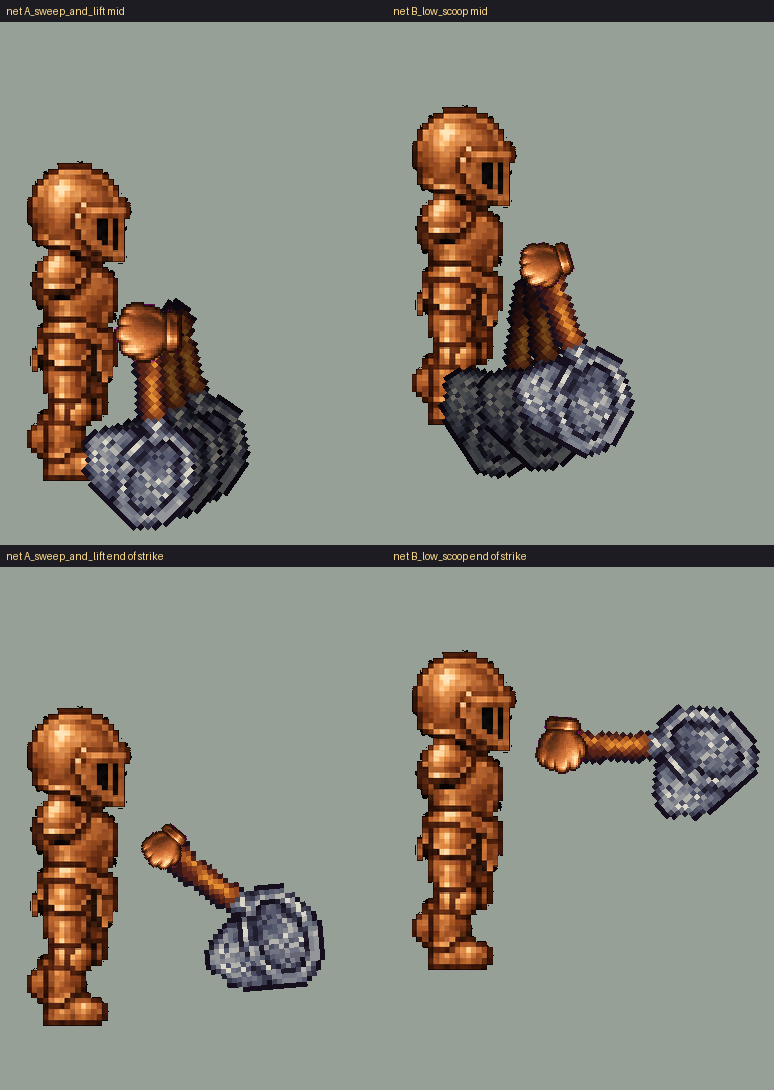
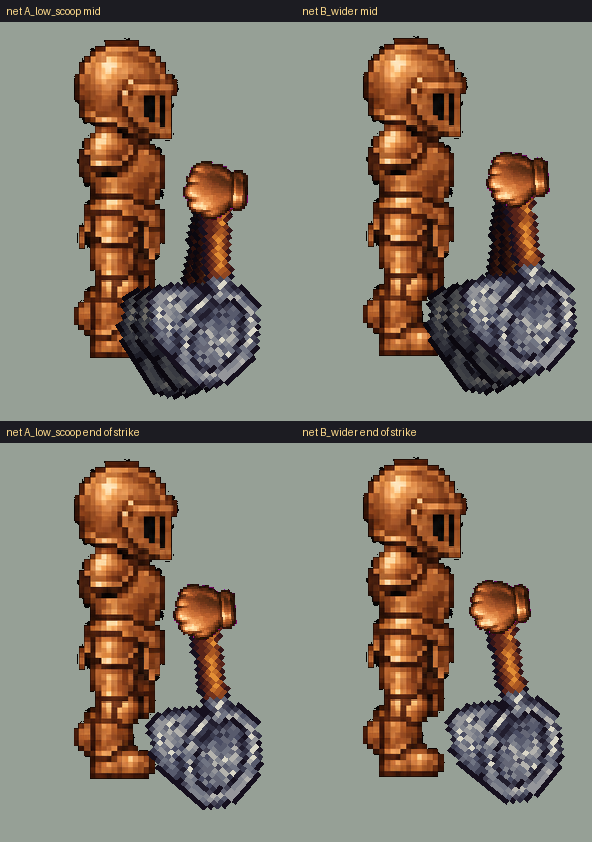
Net, shovel and spear: get the hands down where they belong
"when you sweep up a bug does your hand end up near your face?" - no.
"speer thrust the hands need to come down a bunch more they are near the head"
"shovel is fine, deeper and do it two hands"
"i cant even tell which direction that animation is going with it repeating"

I claimed the sprite was chibi and the shoulder was at head height. WRONG, and I
said it without looking. Measured the width profile: helmet to ~22% down,
shoulders ~30%, waist ~50%, legs below 65%. The shoulder pivot at 30% is exactly
on the shoulder line.

The real fault was AIMING HORIZONTALLY FROM IT, which parks the hands at shoulder
height. A two-handed spear sits at chest/waist, so the thrust now aims -20 deg.
Verified numerically rather than by eye:

  spear   hands travel 32%-47% down the body   (chest to waist)
  net     48%-57%                              (low, and it ends low)
  shovel  42%-69%                              (down to the ground)

  net     starts low and ends low, hoop angled up more
  shovel  deeper (reach to 0.80/0.90) and now TWO-HANDED
  spear   aimed below horizontal, cocked back further

Every attack now holds at rest for 4 frames before the loop restarts, so the
direction is readable instead of ping-ponging.

diff --git a/tools/player_sprites/swing_tools.py b/tools/player_sprites/swing_tools.py
@@ -74,15 +74,18 @@ TOOLS = {
                         (40, 50, 0.44)),
     }),
     "net": ("small_net_icon.png", False, {
-        # hoop LEADS (negative back), and it finishes by LIFTING to enclose rather than passing through
-        "A_sweep_and_lift": ((80, -40, 0.50),
-                             [(30, -48, 0.62), (-20, -54, 0.66), (-50, -40, 0.62), (-30, -10, 0.58)],
-                             (40, -30, 0.46)),
-        "B_low_scoop": ((40, -34, 0.46),
-                        [(-20, -50, 0.60), (-60, -56, 0.66), (-40, -34, 0.62), (0, -4, 0.58)],
-                        (30, -28, 0.44)),
+        # Hoop LEADS (negative back). START LOW AND END LOW — you scoop a bug up off the ground, your
+        # hand does not finish beside your face. Owner: "when you sweep up a bug does your hand end up
+        # near your face?" The hand stays below the shoulder line for the whole motion, and the hoop is
+        # angled UP more so the opening faces where the bug is.
+        "A_low_scoop": ((-78, -34, 0.46),
+                        [(-64, -52, 0.60), (-46, -62, 0.68), (-34, -58, 0.64), (-38, -48, 0.58)],
+                        (-74, -32, 0.44)),
+        "B_wider": ((-84, -30, 0.44),
+                    [(-66, -50, 0.62), (-42, -64, 0.72), (-26, -60, 0.68), (-34, -50, 0.60)],
+                    (-78, -30, 0.44)),
     }),
-    "shovel": ("shovel_copper_icon.png", False, {
+    "shovel": ("shovel_copper_icon.png", True, {
         # THRUST IN, then swing up JUST A LITTLE, then return. Owner: "you are supposed to thrust in and
         # then swing up just a little before returning."
         #
@@ -90,21 +93,27 @@ TOOLS = {
         # at the end — the blade never leaves the ground line. My previous version levered the handle right
         # over and heaved the load up past his shoulder, which is a completely different action and looked
         # nothing like a shovel.
-        "A_thrust_and_lift": ((-50, 20, 0.32),
-                              [(-62, 12, 0.52), (-70, 6, 0.68), (-58, 14, 0.66), (-48, 20, 0.62)],
-                              (-50, 22, 0.36)),
-        "B_deeper": ((-46, 22, 0.30),
-                     [(-64, 10, 0.54), (-76, 2, 0.74), (-62, 12, 0.72), (-50, 20, 0.66)],
-                     (-48, 24, 0.34)),
+        "A_deep": ((-48, 22, 0.32),
+                   [(-64, 10, 0.56), (-78, 0, 0.80), (-62, 12, 0.78), (-50, 20, 0.70)],
+                   (-50, 24, 0.36)),
+        "B_deeper_still": ((-46, 24, 0.30),
+                           [(-66, 8, 0.58), (-82, -4, 0.90), (-64, 10, 0.86), (-50, 20, 0.76)],
+                           (-48, 26, 0.34)),
     }),
     "spear": ("spear_bronze_icon.png", True, {
         # COCKED BACK at the body, then driven forward. Reach is the entire motion.
-        "A_thrust": ((12, 0, 0.15),
-                     [(4, 0, 0.38), (0, 0, 0.78), (0, 0, 0.98), (0, 0, 0.92)],
-                     (12, 10, 0.28)),
-        "B_deep_cock": ((18, 4, 0.06),
-                        [(6, 0, 0.34), (0, 0, 0.82), (0, 0, 1.06), (0, 0, 0.98)],
-                        (14, 12, 0.24)),
+        #
+        # ⚠ AIM IT BELOW HORIZONTAL. The shoulder pivot sits at ~30% down the body, which IS the shoulder
+        # line — measured off the sprite's width profile, where the helmet ends and the torso starts. But
+        # thrusting horizontally FROM there leaves the hands at shoulder height, up by his head. A spear
+        # held two-handed sits at chest/waist. -20 deg drops the hands to about 45% down the body, which
+        # is where they belong. Owner: "the hands need to come down a bunch more they are near the head".
+        "A_thrust": ((-14, 0, 0.15),
+                     [(-18, 0, 0.40), (-20, 0, 0.80), (-20, 0, 1.00), (-20, 0, 0.94)],
+                     (-14, 10, 0.28)),
+        "B_lower": ((-18, 0, 0.12),
+                    [(-24, 0, 0.42), (-26, 0, 0.84), (-26, 0, 1.06), (-26, 0, 0.98)],
+                    (-18, 12, 0.26)),
     }),
 }
 

diff --git a/tools/player_sprites/render_animations.py b/tools/player_sprites/render_animations.py
@@ -255,7 +255,7 @@ def sword_motion(t):
 #
 # Frame budget, 12 frames @ 20ms = 0.24s. The strike frames ARE the path — no easing inside the arc, so
 # the shape survives instead of being smoothed into a generic curve.
-ATK_ANTIC, ATK_STRIKE, ATK_HOLD, ATK_REC = 1, 4, 2, 5
+ATK_ANTIC, ATK_STRIKE, ATK_HOLD, ATK_REC, ATK_REST = 1, 4, 2, 5, 4
 ATK_MS = 20
 
 # E_double_back: out across, then whipped back through the other way. Poses are
@@ -281,6 +281,10 @@ def attack_poses(centre, spec):
     for i in range(ATK_REC):
         u = 1 - (1 - (i + 1) / ATK_REC) ** 3
         out.append(tuple(hit[k] + (r[k] - hit[k]) * u for k in range(3)))
+    # Sit at rest before the loop restarts. A gif that cuts straight from recovery back to the
+    # anticipation reads as a ping-pong and you cannot tell which way the swing is going — owner:
+    # "i cant even tell which direction that animation is going with it repeating".
+    out += [r] * ATK_REST
     return out
 
 

diff --git a/tools/_generated/player/reviews/2026-08-04-swing-tools/README.md b/tools/_generated/player/reviews/2026-08-04-swing-tools/README.md
@@ -16,9 +16,9 @@ channel carries the motion — angle, or reach.
 |---|---|---|
 | **axe** | CHOP | a big arc that **bites and STOPS**. A real axe does not follow through past the wood |
 | **hoe** | TILL | chop in, then **DRAG back** toward you. The drag is the working stroke, not the chop |
-| **net** | CATCH | sweep **hoop-first**, then **LIFT to enclose** — it does not pass through and keep going |
+| **net** | CATCH | **starts low, ends low**, hoop-first and angled up. You scoop a bug off the ground — your hand does not finish beside your face |
 | **shovel** | DIG | **thrust the blade in**, then swing up **just a little**, then return. Reach does the digging; the lift is a small angular change at the end and the blade never leaves the ground line |
-| **spear** | THRUST | cocked back at the body, then driven forward. **Reach is the entire motion** |
+| **spear** | THRUST | cocked back, driven forward, **aimed below horizontal** so the hands sit at chest/waist rather than shoulder height. Reach is the entire motion |
 
 **Reach shrinking while the tool stays low IS the drag and the lever. Reach growing with a still angle IS
 the thrust.** Rotation is the wrong channel for both, which is why they read as waving the thing around.
@@ -30,3 +30,20 @@ kept adjusting the motion and never looked at the sprite scale. It also starts p
 the hand begins 0.15 cells from the shoulder and drives to 0.98.
 
 `B_deep_cock` starts further back again (0.06) and drives past a full cell.
+
+
+## Where the hands actually are (measured, not eyeballed)
+
+The sprite's width profile: helmet to ~22% down, shoulders ~30%, waist ~50%, legs below 65%. The shoulder
+pivot sits at **30%** — correctly on the shoulder line.
+
+| | hand travels |
+|---|---|
+| spear | 32%-47% down the body — chest to waist |
+| net | 48%-57% — low, and it ends low |
+| shovel | 42%-69% — down to the ground |
+
+The bug was never the pivot. It was **aiming horizontally from it**, which parks the hands at shoulder
+height — up by his head. Thrusts and scoops aim below horizontal.
+
+Every gif now **holds at rest** for 4 frames before looping, so you can tell which direction it runs.

diff --git a/tools/_generated/player/README.md b/tools/_generated/player/README.md
@@ -122,6 +122,19 @@ a sweep **across the body that passes THROUGH** the tile being hit — never a t
 direction, which gives a reverse stab. 12 frames × 20ms = 0.24s: 1 anticipation, 4 strike (with a blade
 trail), 2 hold, 5 recovery.
 
+**WHERE THE HANDS SIT — measure the sprite, do not assume.** Bronze's width profile: helmet to ~22% down,
+shoulders ~30%, waist ~50%, legs below 65%. The shoulder pivot (`SHOULDER`, 0.40 cells above body centre)
+lands at **30%** — correctly on the shoulder line. The character is **not** chibi; asserting that without
+looking sent one whole pass in the wrong direction.
+
+⚠ **The trap is aiming HORIZONTALLY from the shoulder**, which parks the hands at shoulder height, up by
+his head. A two-handed spear sits at chest/waist, a bug-scoop at waist. **Thrusts and scoops aim BELOW
+horizontal** (spear −20°). Check it by computing where the hand lands as a % down the body, not by eye:
+spear 32-47%, net 48-57%, shovel 42-69%.
+
+**Every attack holds at REST for 4 frames before looping** (`ATK_REST`) — without it a looping gif
+ping-pongs and you cannot tell which direction the swing runs.
+
 **Every tool now uses the hand-travels model**, each with its own verb: axe CHOPS (bites and stops), hoe
 TILLS (chop then drag back), net CATCHES (hoop leads, then lifts to enclose), shovel DIGS (push in, lever,
 lift, toss — not a swing at all), spear THRUSTS (cocked back, reach is the whole motion).

diff --git a/docs/guides/art/CHARACTER_DESIGN_GUIDE.md b/docs/guides/art/CHARACTER_DESIGN_GUIDE.md
@@ -302,6 +302,19 @@ Owner: *"do sword_1h_f4_back85 as the official one, but have it pull back a tad 
 hand is at the hip not forward a little, you can also have tip slightly continue down more."*
 The other five tools still run the old shoulder-pivot approaches.
 
+**WHERE THE HANDS SIT — measure the sprite, do not assume.** Bronze's width profile: helmet to ~22% down,
+shoulders ~30%, waist ~50%, legs below 65%. The shoulder pivot (`SHOULDER`, 0.40 cells above body centre)
+lands at **30%** — correctly on the shoulder line. The character is **not** chibi; asserting that without
+looking sent one whole pass in the wrong direction.
+
+⚠ **The trap is aiming HORIZONTALLY from the shoulder**, which parks the hands at shoulder height, up by
+his head. A two-handed spear sits at chest/waist, a bug-scoop at waist. **Thrusts and scoops aim BELOW
+horizontal** (spear −20°). Check it by computing where the hand lands as a % down the body, not by eye:
+spear 32-47%, net 48-57%, shovel 42-69%.
+
+**Every attack holds at REST for 4 frames before looping** (`ATK_REST`) — without it a looping gif
+ping-pongs and you cannot tell which direction the swing runs.
+
 **THE VERB DECIDES THE CHANNEL — angle or reach.** Not every tool is an arc:
 
 - **reach SHRINKING while the tool stays low** is the hoe's *drag* and the shovel's *lever*
